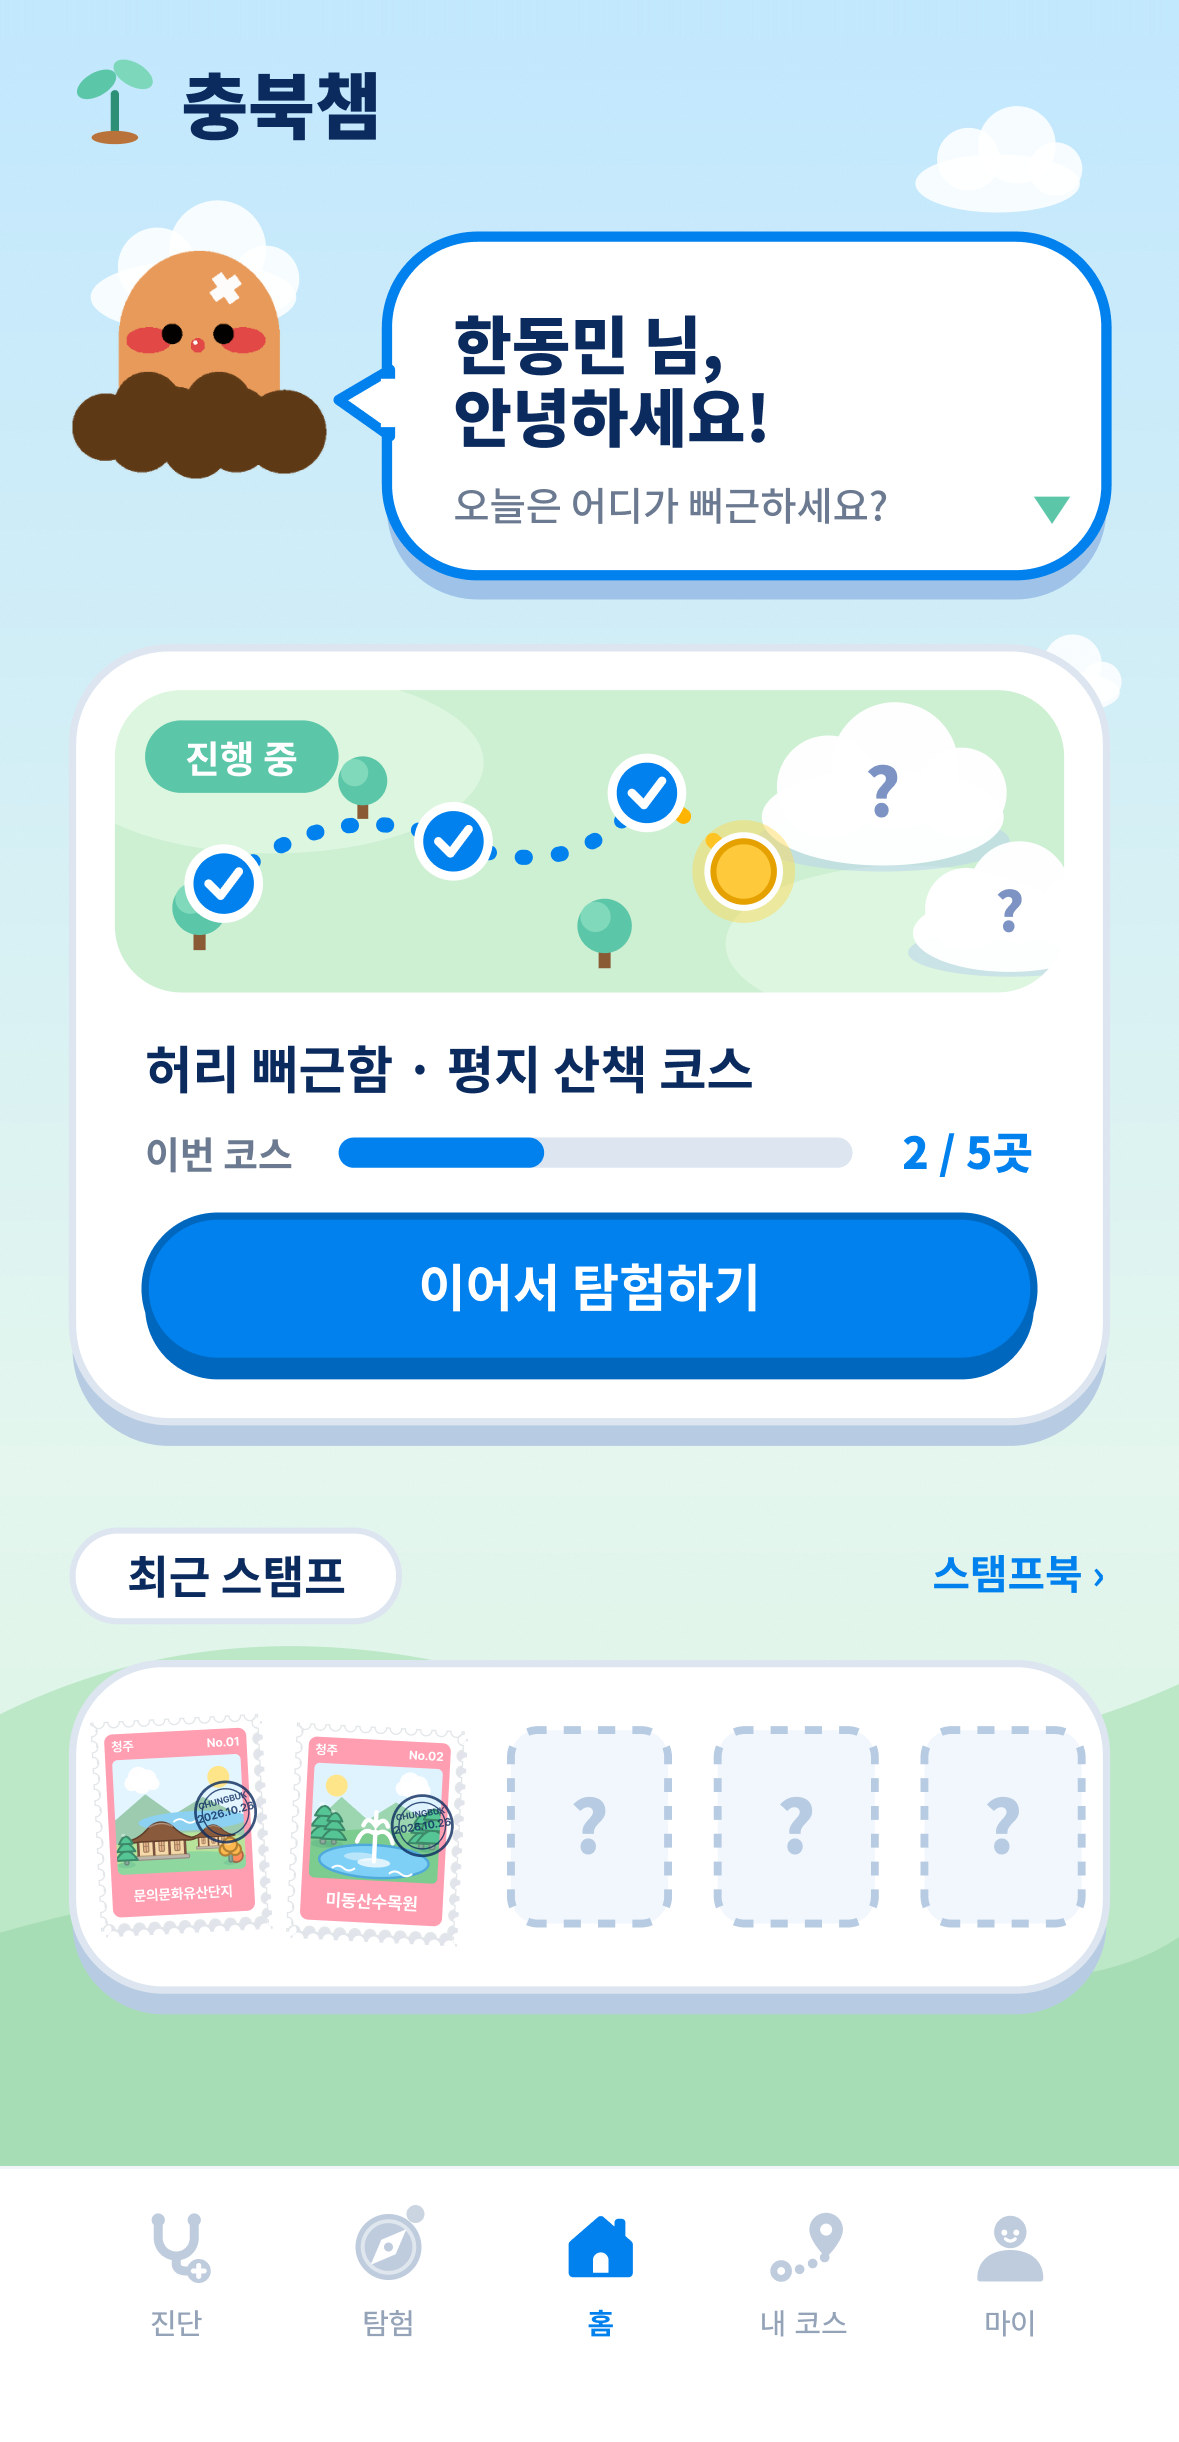
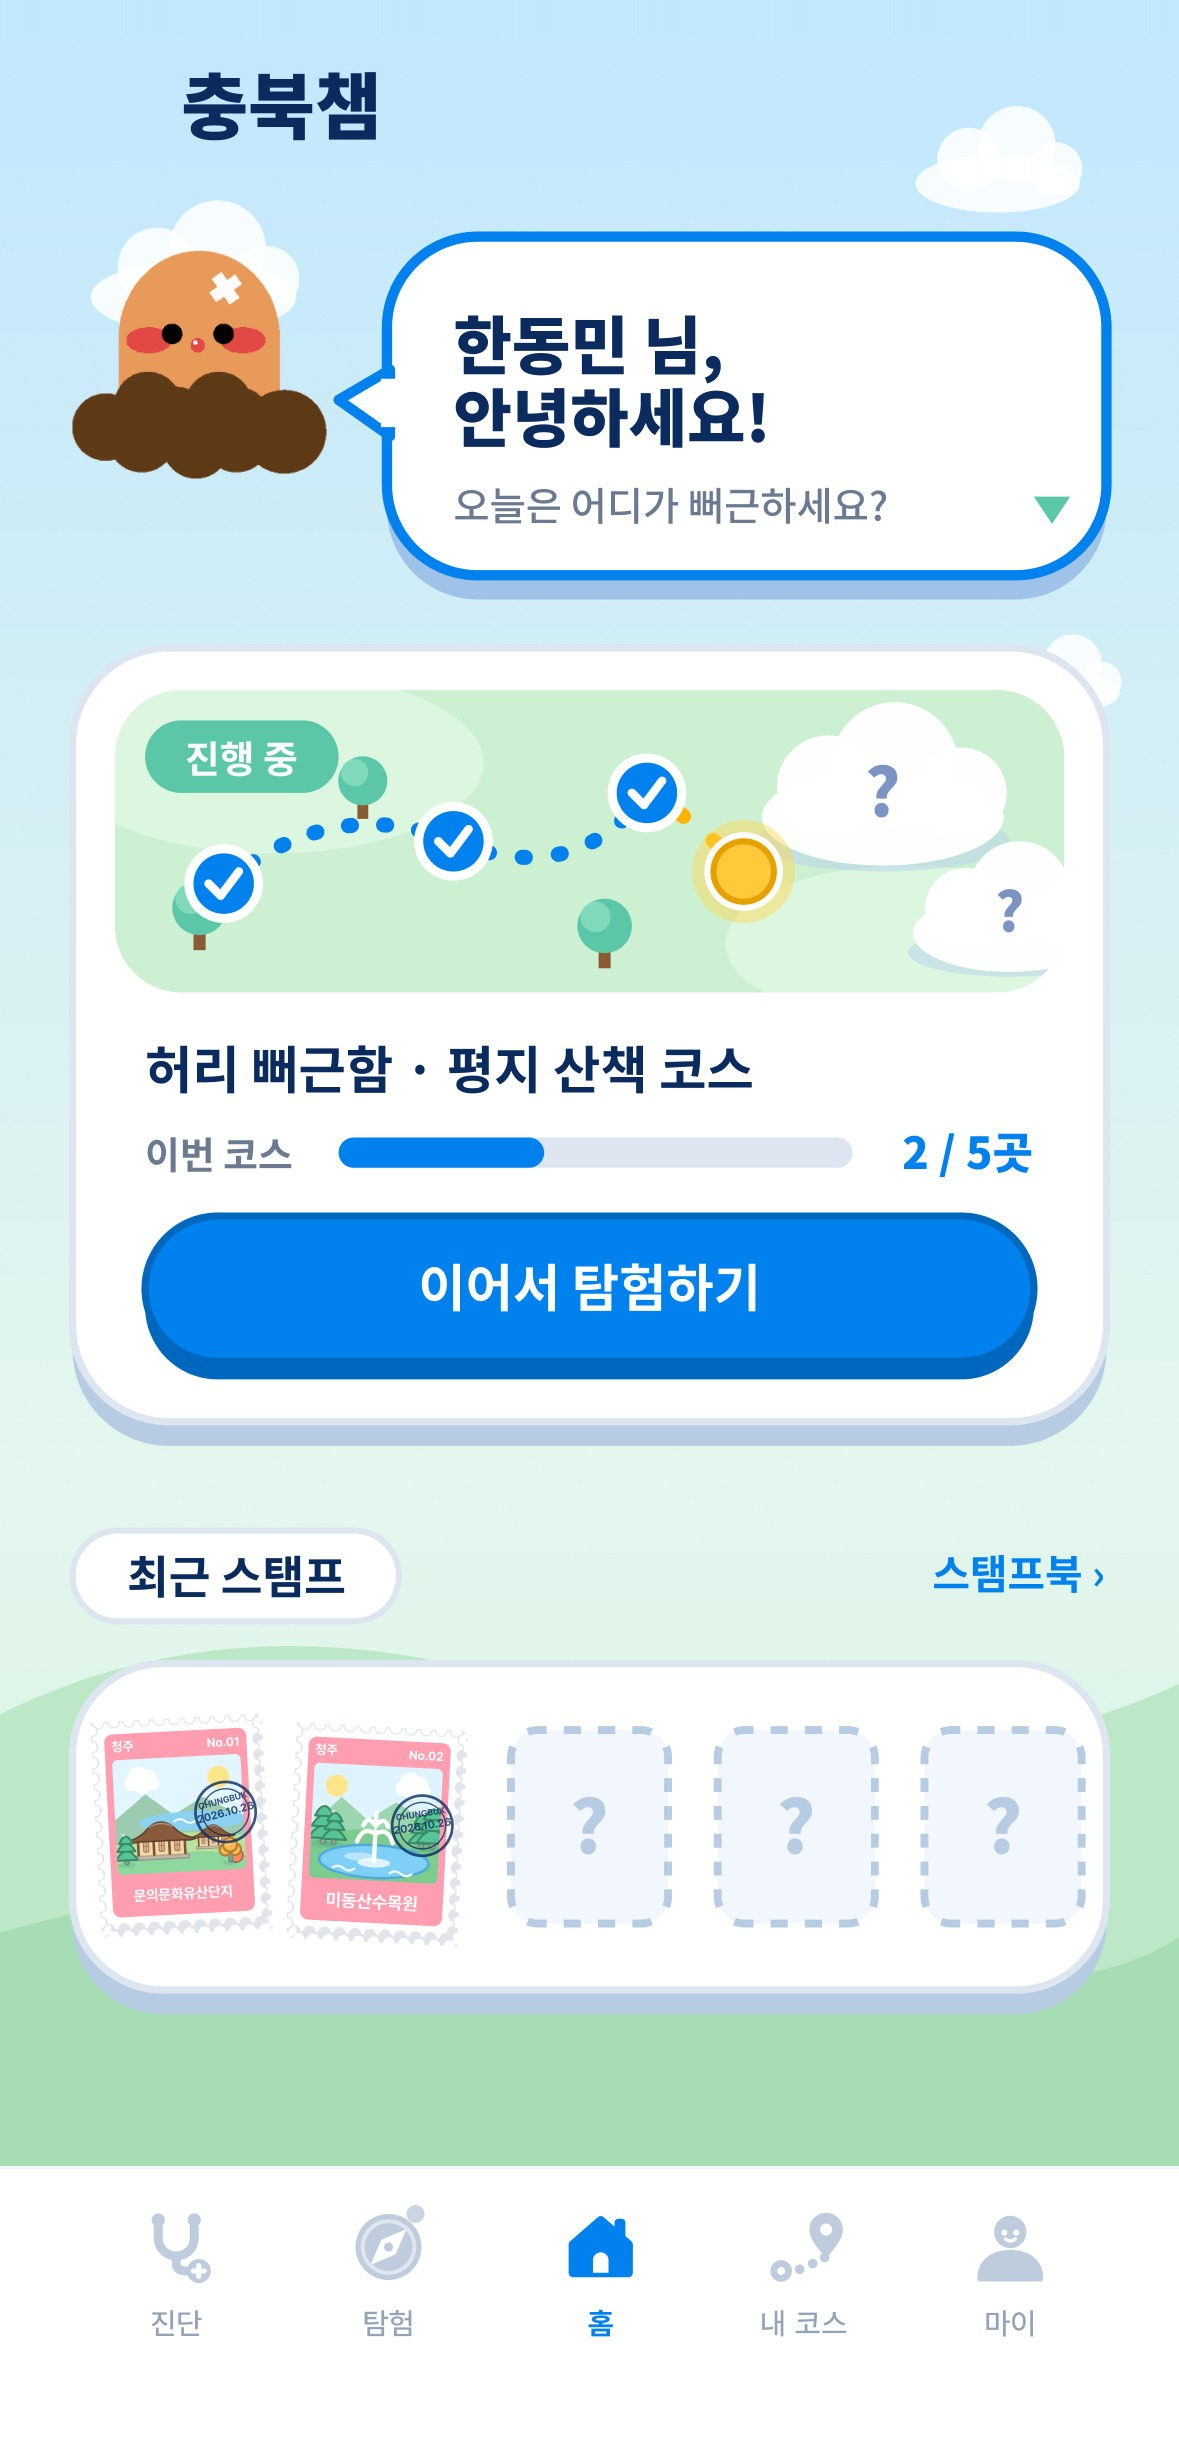
홈 로고를 피그마 '챔' 로고 마크 + 충북챔으로
Claude-Session: https://claude.ai/code/session_01AiJtLAmQ687dwMmwDkBebg

diff --git a/app.js b/app.js
@@ -916,6 +916,9 @@
 
   // 홈 왼쪽 위 로고 = 온보딩의 구름 + 챔 로고
   const CB_LOGO = `<svg class="cb-logo" viewBox="0 0 98 68" fill="none" aria-label="챔"><path d="M0 46.1429C0 58.2098 9.87656 68 22.05 68H78.4C89.2259 68 98 59.3027 98 48.5714C98 39.1759 91.2625 31.3286 82.32 29.5375C82.9478 27.9134 83.3 26.1375 83.3 24.2857C83.3 16.2411 76.7156 9.71429 68.6 9.71429C65.5834 9.71429 62.7659 10.625 60.4384 12.1732C56.1969 4.8875 48.2803 0 39.2 0C25.6637 0 14.7 10.8679 14.7 24.2857C14.7 24.6955 14.7153 25.1054 14.7306 25.5152C6.15563 28.5054 0 36.6107 0 46.1429Z" fill="white"/><g transform="translate(26.5 14.5)"><path d="M37.2002 26.5918C38.1281 26.5918 38.8642 26.8959 39.4082 27.5039C39.9522 28.1119 40.2236 28.9282 40.2236 29.9521V40.3203C40.2236 41.344 39.9519 42.1597 39.4082 42.7676C38.8642 43.3755 38.1281 43.6796 37.2002 43.6797H3.02441C2.09641 43.6797 1.36041 43.3756 0.816406 42.7676C0.272481 42.1596 5.47117e-05 41.3442 0 40.3203V29.9521C0 28.9281 0.272406 28.1119 0.816406 27.5039C1.36038 26.8961 2.09654 26.5918 3.02441 26.5918H37.2002ZM27.2158 34.752C24.912 35.2319 22.5441 35.4717 20.1123 35.4717C17.6803 35.4717 15.3118 35.232 13.0078 34.752V35.9043C15.3118 36.3843 17.6803 36.624 20.1123 36.624C22.5441 36.624 24.912 36.3842 27.2158 35.9043V34.752ZM17.0127 31.5352C16.1843 31.5352 15.5127 32.2067 15.5127 33.0352C15.5127 33.8636 16.1843 34.5352 17.0127 34.5352C17.8409 34.5349 18.5127 33.8634 18.5127 33.0352C18.5127 32.2069 17.8409 31.5354 17.0127 31.5352ZM23.0127 31.5352C22.1843 31.5352 21.5127 32.2067 21.5127 33.0352C21.5127 33.8636 22.1843 34.5352 23.0127 34.5352C23.8409 34.5349 24.5127 33.8634 24.5127 33.0352C24.5127 32.2069 23.8409 31.5354 23.0127 31.5352ZM11.2324 0C11.6482 9.70041e-05 12.0161 0.143866 12.3359 0.431641C12.6559 0.719567 12.976 1.03971 13.2959 1.3916C13.6158 1.74349 13.936 2.06363 14.2559 2.35156C14.5759 2.63956 14.9444 2.78418 15.3604 2.78418C16.2562 2.78426 16.9756 3.08842 17.5195 3.69629C18.0635 4.3042 18.3359 5.11976 18.3359 6.14355V8.73633C18.3359 9.76018 18.0635 10.5757 17.5195 11.1836C16.9755 11.7916 16.2395 12.0957 15.3115 12.0957H15.0244V12.4316C15.0244 13.8396 15.4405 14.8481 16.2725 15.4561C17.0403 16.064 17.5685 16.5921 17.8564 17.04C18.1763 17.456 18.3359 17.9366 18.3359 18.4805V22.3203C18.3359 23.3441 18.0476 24.1596 17.4717 24.7676C16.9277 25.3436 16.2075 25.5843 15.3115 25.4883C14.0958 25.3283 12.9442 25.0558 11.8564 24.6719C10.7685 24.2559 9.8561 23.6 9.12012 22.7041C8.44821 23.6 7.56826 24.2559 6.48047 24.6719C5.39247 25.0559 4.22359 25.3283 2.97559 25.4883C2.11178 25.5842 1.39231 25.3435 0.816406 24.7676C0.272481 24.1596 5.47117e-05 23.3441 0 22.3203V18.4805C0 17.5205 0.688453 16.4962 2.06445 15.4082C2.41637 15.1202 2.70377 14.7358 2.92773 14.2559C3.15173 13.7439 3.26367 13.1356 3.26367 12.4316V12.0957H3.02441C2.09641 12.0957 1.36041 11.7916 0.816406 11.1836C0.272479 10.5757 5.77512e-05 9.76016 0 8.73633V6.14355C7.90266e-05 5.11976 0.272485 4.3042 0.816406 3.69629C1.36032 3.08841 2.0798 2.78427 2.97559 2.78418C3.39159 2.78418 3.76008 2.63956 4.08008 2.35156C4.39998 2.06362 4.70427 1.74351 4.99219 1.3916C5.31209 1.03972 5.63224 0.719556 5.95215 0.431641C6.27198 0.143901 6.65585 0.000103754 7.10352 0H11.2324ZM26.208 1.05566C27.1359 1.05567 27.872 1.35985 28.416 1.96777C28.96 2.57577 29.2324 3.39202 29.2324 4.41602V7.2002H30.2881V4.41602C30.2881 3.39208 30.5596 2.57576 31.1035 1.96777C31.6794 1.35988 32.4157 1.05577 33.3115 1.05566H37.2002C38.1281 1.05571 38.8642 1.35983 39.4082 1.96777C39.9522 2.57577 40.2236 3.39202 40.2236 4.41602V22.0801C40.2236 23.104 39.9522 23.9203 39.4082 24.5283C38.8642 25.1362 38.1281 25.4404 37.2002 25.4404H33.3115C32.4157 25.4403 31.6794 25.1362 31.1035 24.5283C30.5596 23.9203 30.2881 23.104 30.2881 22.0801V18.8164H29.2324V22.0801C29.2324 23.104 28.96 23.9203 28.416 24.5283C27.872 25.1362 27.1359 25.4404 26.208 25.4404H22.3203C21.3925 25.4404 20.6563 25.1361 20.1123 24.5283C19.5683 23.9203 19.2959 23.104 19.2959 22.0801V4.41602C19.2959 3.39202 19.5683 2.57577 20.1123 1.96777C20.6563 1.35996 21.3925 1.05566 22.3203 1.05566H26.208Z" fill="#339AF1"/></g></svg>`;
+  // 홈 왼쪽 위 로고: 피그마 '챔' 로고 마크 + 충북챔
+  const CB_MARK = `<svg class="cb-mark" viewBox="0 0 41 44" fill="none" aria-label="챔"><path d="M37.2002 26.5918C38.1281 26.5918 38.8642 26.8959 39.4082 27.5039C39.9522 28.1119 40.2236 28.9282 40.2236 29.9521V40.3203C40.2236 41.344 39.9519 42.1597 39.4082 42.7676C38.8642 43.3755 38.1281 43.6796 37.2002 43.6797H3.02441C2.09641 43.6797 1.36041 43.3756 0.816406 42.7676C0.272481 42.1596 5.47117e-05 41.3442 0 40.3203V29.9521C0 28.9281 0.272406 28.1119 0.816406 27.5039C1.36038 26.8961 2.09654 26.5918 3.02441 26.5918H37.2002ZM27.2158 34.752C24.912 35.2319 22.5441 35.4717 20.1123 35.4717C17.6803 35.4717 15.3118 35.232 13.0078 34.752V35.9043C15.3118 36.3843 17.6803 36.624 20.1123 36.624C22.5441 36.624 24.912 36.3842 27.2158 35.9043V34.752ZM17.0127 31.5352C16.1843 31.5352 15.5127 32.2067 15.5127 33.0352C15.5127 33.8636 16.1843 34.5352 17.0127 34.5352C17.8409 34.5349 18.5127 33.8634 18.5127 33.0352C18.5127 32.2069 17.8409 31.5354 17.0127 31.5352ZM23.0127 31.5352C22.1843 31.5352 21.5127 32.2067 21.5127 33.0352C21.5127 33.8636 22.1843 34.5352 23.0127 34.5352C23.8409 34.5349 24.5127 33.8634 24.5127 33.0352C24.5127 32.2069 23.8409 31.5354 23.0127 31.5352ZM11.2324 0C11.6482 9.70041e-05 12.0161 0.143866 12.3359 0.431641C12.6559 0.719567 12.976 1.03971 13.2959 1.3916C13.6158 1.74349 13.936 2.06363 14.2559 2.35156C14.5759 2.63956 14.9444 2.78418 15.3604 2.78418C16.2562 2.78426 16.9756 3.08842 17.5195 3.69629C18.0635 4.3042 18.3359 5.11976 18.3359 6.14355V8.73633C18.3359 9.76018 18.0635 10.5757 17.5195 11.1836C16.9755 11.7916 16.2395 12.0957 15.3115 12.0957H15.0244V12.4316C15.0244 13.8396 15.4405 14.8481 16.2725 15.4561C17.0403 16.064 17.5685 16.5921 17.8564 17.04C18.1763 17.456 18.3359 17.9366 18.3359 18.4805V22.3203C18.3359 23.3441 18.0476 24.1596 17.4717 24.7676C16.9277 25.3436 16.2075 25.5843 15.3115 25.4883C14.0958 25.3283 12.9442 25.0558 11.8564 24.6719C10.7685 24.2559 9.8561 23.6 9.12012 22.7041C8.44821 23.6 7.56826 24.2559 6.48047 24.6719C5.39247 25.0559 4.22359 25.3283 2.97559 25.4883C2.11178 25.5842 1.39231 25.3435 0.816406 24.7676C0.272481 24.1596 5.47117e-05 23.3441 0 22.3203V18.4805C0 17.5205 0.688453 16.4962 2.06445 15.4082C2.41637 15.1202 2.70377 14.7358 2.92773 14.2559C3.15173 13.7439 3.26367 13.1356 3.26367 12.4316V12.0957H3.02441C2.09641 12.0957 1.36041 11.7916 0.816406 11.1836C0.272479 10.5757 5.77512e-05 9.76016 0 8.73633V6.14355C7.90266e-05 5.11976 0.272485 4.3042 0.816406 3.69629C1.36032 3.08841 2.0798 2.78427 2.97559 2.78418C3.39159 2.78418 3.76008 2.63956 4.08008 2.35156C4.39998 2.06362 4.70427 1.74351 4.99219 1.3916C5.31209 1.03972 5.63224 0.719556 5.95215 0.431641C6.27198 0.143901 6.65585 0.000103754 7.10352 0H11.2324ZM26.208 1.05566C27.1359 1.05567 27.872 1.35985 28.416 1.96777C28.96 2.57577 29.2324 3.39202 29.2324 4.41602V7.2002H30.2881V4.41602C30.2881 3.39208 30.5596 2.57576 31.1035 1.96777C31.6794 1.35988 32.4157 1.05577 33.3115 1.05566H37.2002C38.1281 1.05571 38.8642 1.35983 39.4082 1.96777C39.9522 2.57577 40.2236 3.39202 40.2236 4.41602V22.0801C40.2236 23.104 39.9522 23.9203 39.4082 24.5283C38.8642 25.1362 38.1281 25.4404 37.2002 25.4404H33.3115C32.4157 25.4403 31.6794 25.1362 31.1035 24.5283C30.5596 23.9203 30.2881 23.104 30.2881 22.0801V18.8164H29.2324V22.0801C29.2324 23.104 28.96 23.9203 28.416 24.5283C27.872 25.1362 27.1359 25.4404 26.208 25.4404H22.3203C21.3925 25.4404 20.6563 25.1361 20.1123 24.5283C19.5683 23.9203 19.2959 23.104 19.2959 22.0801V4.41602C19.2959 3.39202 19.5683 2.57577 20.1123 1.96777C20.6563 1.35996 21.3925 1.05566 22.3203 1.05566H26.208Z" fill="#339AF1"/></svg>`;
+  chain("home", (el) => { overlay(el, "home", 24, 56, 29, 31, CB_MARK, "home-mark").style.pointerEvents = "none"; });
   // ── 청주 지도: 장소마다 눌러서 고르기 → 카드 바뀜 → 스탬프 ──
   const CJ = [
     { name: "운보의집", img: "l-unbo", box: [86, 315, 85, 63], dist: "350m · 도보 5분", rate: "4.8", stamp: "assets/cj/past1.png" },

diff --git a/index.html b/index.html
@@ -13,7 +13,7 @@
   <link rel="manifest" href="manifest.json" />
   <meta name="apple-mobile-web-app-title" content="충북챔" />
   <link rel="stylesheet" href="https://cdn.jsdelivr.net/gh/orioncactus/pretendard@v1.3.9/dist/web/static/pretendard.min.css" />
-  <link rel="stylesheet" href="style.css?v=1794333601" />
+  <link rel="stylesheet" href="style.css?v=1794881702" />
 </head>
 <body>
   <div id="backdrop"></div>
@@ -21,6 +21,6 @@
   <div id="toast" role="status"></div>
   <script src="data.js?v=1794881298"></script>
   <script src="tabicons.js?v=1"></script>
-  <script src="app.js?v=1794881298"></script>
+  <script src="app.js?v=1794881702"></script>
 </body>
 </html>

diff --git a/style.css b/style.css
@@ -772,3 +772,4 @@ button:focus, button:focus-visible, .ov:focus { outline: none; }
 .gbtns .gstamp.stamped .stamp-ok { display: inline-grid; place-items: center; width: 22px; height: 22px; border-radius: 50%; background: #16946b; color: #fff; font-size: 13px; animation: mcPop .4s cubic-bezier(.3,1.6,.5,1); }
 @keyframes stampDone { 0% { transform: scale(.92); } 100% { transform: scale(1); } }
 .home-logo .cb-logo { display: block; width: 66px; height: 46px; filter: drop-shadow(0 3px 6px rgba(51,154,241,.18)); }
+.home-mark .cb-mark { display: block; width: 29px; height: 31px; }
